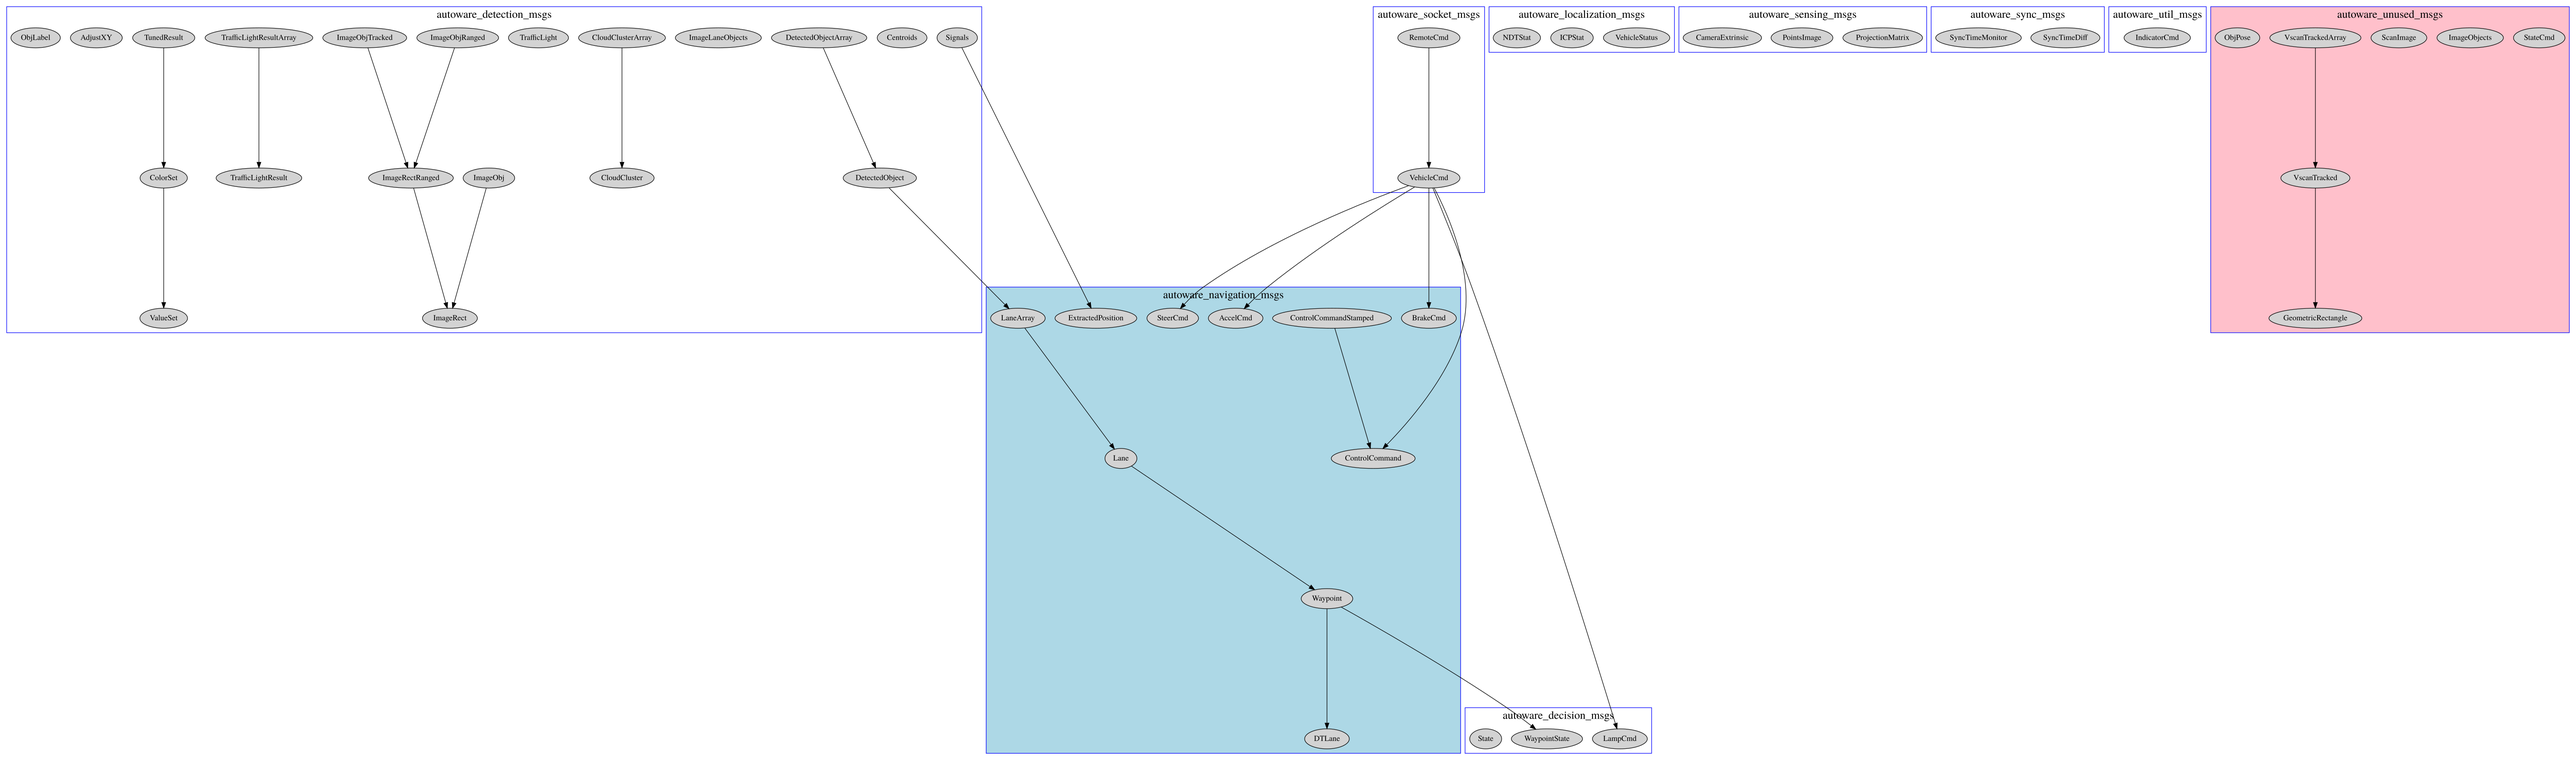
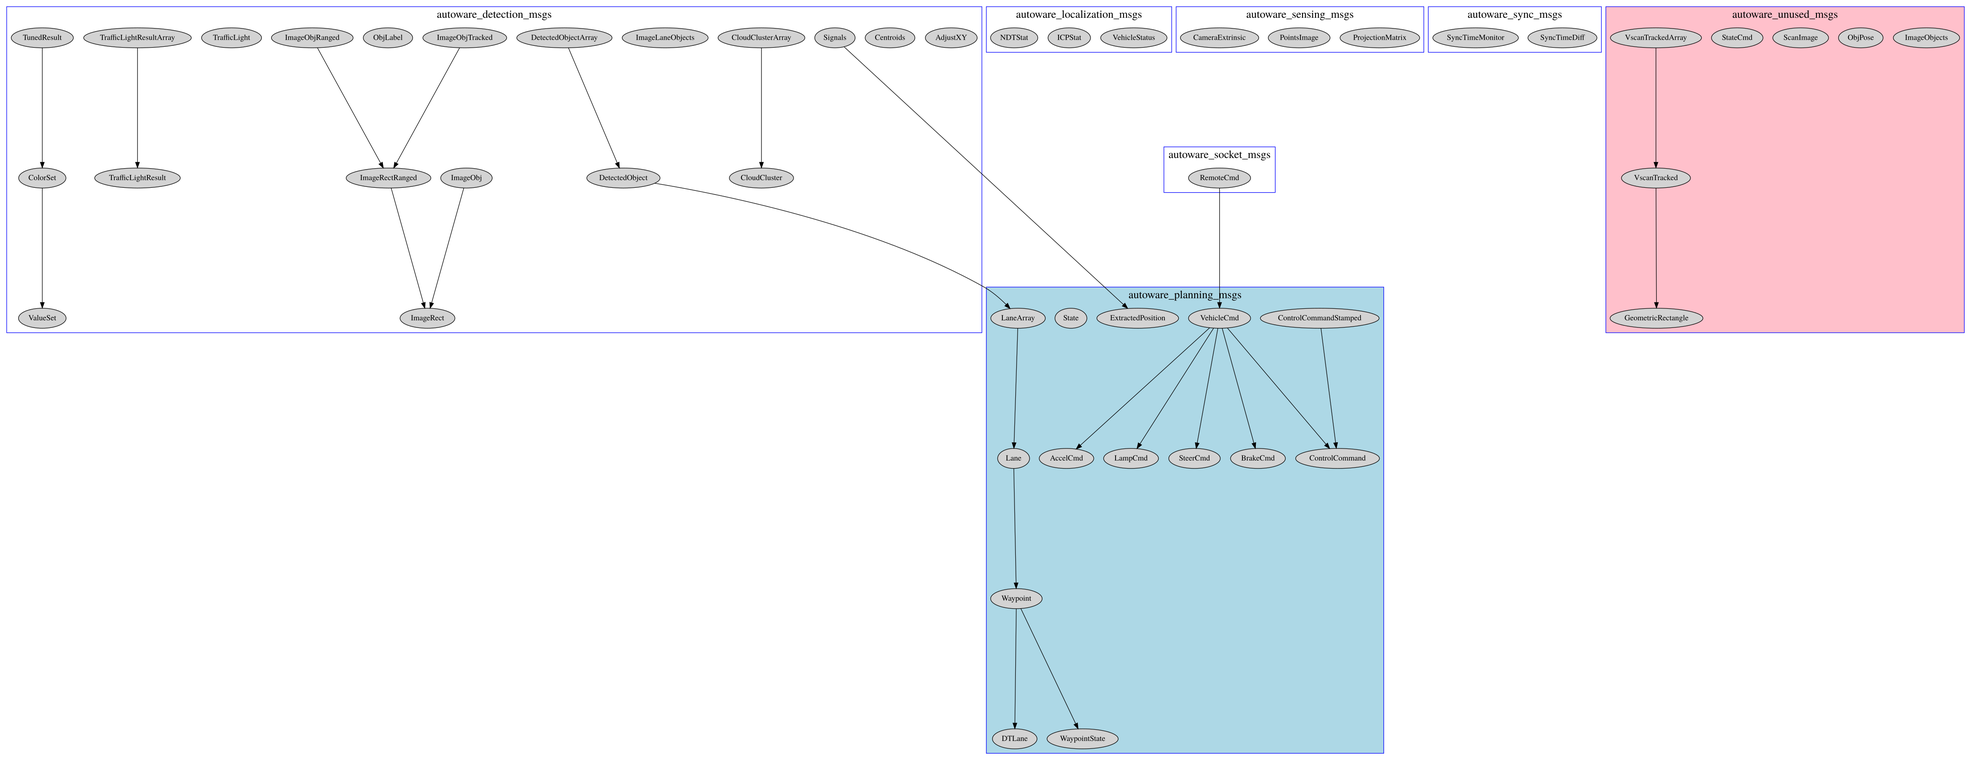
Fixed several issues with documentation.

diff --git a/ros/concerning-autoware-msgs.md b/ros/concerning-autoware-msgs.md
@@ -24,67 +24,82 @@ Namespace of existing message types in `src/msgs/autoware_msgs/msg/` will change
 
 | New namespace                 | Associated messages      |
 | ----------------------------- | ------------------------ |
-|`autoware_decision_msgs`|`autoware_msgs/LampCmd`,`autoware_msgs/WaypointState`,`autoware_msgs/State`|
-|`autoware_detection_msgs`|`autoware_msgs/DetectedObjectArray`,`autoware_msgs/Centroids`,`autoware_msgs/ImageObjRanged`,`autoware_msgs/ImageLaneObjects`,`autoware_msgs/CloudClusterArray`,`autoware_msgs/ImageRect`,`autoware_msgs/TrafficLightResult`,`autoware_msgs/TrafficLight`,`autoware_msgs/ImageObj`,`autoware_msgs/ImageObjTracked`,`autoware_msgs/Signals`,`autoware_msgs/DetectedObject`,`autoware_msgs/TrafficLightResultArray`,`autoware_msgs/TunedResult`,`autoware_msgs/AdjustXY`,`autoware_msgs/CloudCluster`,`autoware_msgs/ObjLabel`|
-|`autoware_localization_msgs`|`autoware_msgs/VehicleStatus`,`autoware_msgs/ICPStat`,`autoware_msgs/NDTStat`|
-|`autoware_mission_msgs`|`autoware_msgs/DTLane`,`autoware_msgs/LaneArray`,`autoware_msgs/Lane`|
-|`autoware_motion_msgs`|`autoware_msgs/ControlCommandStamped`,`autoware_msgs/Waypoint`,`autoware_msgs/ExtractedPosition`,`autoware_msgs/ControlCommand`,`autoware_msgs/BrakeCmd`,`autoware_msgs/AccelCmd`,`autoware_msgs/SteerCmd`|
-|`autoware_sensing_msgs`|`autoware_msgs/ProjectionMatrix`,`autoware_msgs/PointsImage`,`autoware_msgs/CameraExtrinsic`|
-|`autoware_socket_msgs`|`autoware_msgs/VehicleCmd`,`autoware_msgs/RemoteCmd`|
+|`autoware_detection_msgs`|`autoware_msgs/AdjustXY`,`autoware_msgs/Centroids`,`autoware_msgs/CloudCluster`,`autoware_msgs/CloudClusterArray`,`autoware_msgs/ColorSet`,`autoware_msgs/DetectedObject`,`autoware_msgs/DetectedObjectArray`,`autoware_msgs/ImageLaneObjects`,`autoware_msgs/ImageObj`,`autoware_msgs/ImageObjRanged`,`autoware_msgs/ImageObjTracked`,`autoware_msgs/ImageRect`,`autoware_msgs/ImageRectRanged`,`autoware_msgs/ObjLabel`,`autoware_msgs/Signals`,`autoware_msgs/TrafficLight`,`autoware_msgs/TrafficLightResult`,`autoware_msgs/TrafficLightResultArray`,`autoware_msgs/TunedResult`,`autoware_msgs/ValueSet`|
+|`autoware_localization_msgs`|`autoware_msgs/ICPStat`,`autoware_msgs/NDTStat`,`autoware_msgs/VehicleStatus`|
+|`autoware_planning_msgs`|`autoware_msgs/AccelCmd`,`autoware_msgs/BrakeCmd`,`autoware_msgs/ControlCommand`,`autoware_msgs/ControlCommandStamped`,`autoware_msgs/DTLane`,`autoware_msgs/ExtractedPosition`,`autoware_msgs/LampCmd`,`autoware_msgs/Lane`,`autoware_msgs/LaneArray`,`autoware_msgs/State`,`autoware_msgs/SteerCmd`,`autoware_msgs/VehicleCmd`,`autoware_msgs/Waypoint`,`autoware_msgs/WaypointState`|
+|`autoware_sensing_msgs`|`autoware_msgs/CameraExtrinsic`,`autoware_msgs/PointsImage`,`autoware_msgs/ProjectionMatrix`|
+|`autoware_socket_msgs`|`autoware_msgs/RemoteCmd`|
 |`autoware_sync_msgs`|`autoware_msgs/SyncTimeDiff`,`autoware_msgs/SyncTimeMonitor`|
-|`autoware_unused_msgs`|`autoware_msgs/StateCmd`,`autoware_msgs/ImageObjects`,`autoware_msgs/ImageRectRanged`,`autoware_msgs/VscanTracked`,`autoware_msgs/ScanImage`,`autoware_msgs/ValueSet`,`autoware_msgs/ColorSet`,`autoware_msgs/VscanTrackedArray`,`autoware_msgs/ObjPose`,`autoware_msgs/GeometricRectangle`|
-|`autoware_util_msgs`|`autoware_msgs/IndicatorCmd`|
+|`autoware_unused_msgs`(*)|`autoware_msgs/ColorSet`,`autoware_msgs/GeometricRectangle`,`autoware_msgs/ImageObjects`,`autoware_msgs/ImageRectRanged`,`autoware_msgs/ObjPose`,`autoware_msgs/ScanImage`,`autoware_msgs/StateCmd`,`autoware_msgs/ValueSet`,`autoware_msgs/VscanTracked`,`autoware_msgs/VscanTrackedArray`|
 
+(*) These messages will be deleted
 
 The following is a different view of the above table, to ease finding messages to their new namespace.
 
 | Current message               | New namespace            |
 | ----------------------------- | ------------------------ |
-|`autoware_msgs/AccelCmd`|`autoware_motion_msgs`|
+|`autoware_msgs/AccelCmd`|`autoware_planning_msgs`|
 |`autoware_msgs/AdjustXY`|`autoware_detection_msgs`|
-|`autoware_msgs/BrakeCmd`|`autoware_motion_msgs`|
+|`autoware_msgs/BrakeCmd`|`autoware_planning_msgs`|
 |`autoware_msgs/CameraExtrinsic`|`autoware_sensing_msgs`|
 |`autoware_msgs/Centroids`|`autoware_detection_msgs`|
 |`autoware_msgs/CloudCluster`|`autoware_detection_msgs`|
 |`autoware_msgs/CloudClusterArray`|`autoware_detection_msgs`|
-|`autoware_msgs/ControlCommand`|`autoware_motion_msgs`|
-|`autoware_msgs/ControlCommandStamped`|`autoware_motion_msgs`|
-|`autoware_msgs/DTLane`|`autoware_mission_msgs`|
+|`autoware_msgs/ColorSet`|`autoware_detection_msgs`|
+|`autoware_msgs/ControlCommand`|`autoware_planning_msgs`|
+|`autoware_msgs/ControlCommandStamped`|`autoware_planning_msgs`|
+|`autoware_msgs/DTLane`|`autoware_planning_msgs`|
 |`autoware_msgs/DetectedObject`|`autoware_detection_msgs`|
 |`autoware_msgs/DetectedObjectArray`|`autoware_detection_msgs`|
-|`autoware_msgs/ExtractedPosition`|`autoware_motion_msgs`|
+|`autoware_msgs/ExtractedPosition`|`autoware_planning_msgs`|
+|`autoware_msgs/GeometricRectangle`|`autoware_unused_msgs`|
 |`autoware_msgs/ICPStat`|`autoware_localization_msgs`|
 |`autoware_msgs/ImageLaneObjects`|`autoware_detection_msgs`|
 |`autoware_msgs/ImageObj`|`autoware_detection_msgs`|
 |`autoware_msgs/ImageObjRanged`|`autoware_detection_msgs`|
 |`autoware_msgs/ImageObjTracked`|`autoware_detection_msgs`|
 |`autoware_msgs/ImageRect`|`autoware_detection_msgs`|
-|`autoware_msgs/IndicatorCmd`|`autoware_util_msgs`|
-|`autoware_msgs/LampCmd`|`autoware_decision_msgs`|
-|`autoware_msgs/Lane`|`autoware_mission_msgs`|
-|`autoware_msgs/LaneArray`|`autoware_mission_msgs`|
+|`autoware_msgs/ImageRectRanged`|`autoware_detection_msgs`|
+|`autoware_msgs/LampCmd`|`autoware_planning_msgs`|
+|`autoware_msgs/Lane`|`autoware_planning_msgs`|
+|`autoware_msgs/LaneArray`|`autoware_planning_msgs`|
 |`autoware_msgs/NDTStat`|`autoware_localization_msgs`|
 |`autoware_msgs/ObjLabel`|`autoware_detection_msgs`|
 |`autoware_msgs/PointsImage`|`autoware_sensing_msgs`|
 |`autoware_msgs/ProjectionMatrix`|`autoware_sensing_msgs`|
 |`autoware_msgs/RemoteCmd`|`autoware_socket_msgs`|
 |`autoware_msgs/Signals`|`autoware_detection_msgs`|
-|`autoware_msgs/State`|`autoware_decision_msgs`|
-|`autoware_msgs/SteerCmd`|`autoware_motion_msgs`|
+|`autoware_msgs/State`|`autoware_planning_msgs`|
+|`autoware_msgs/SteerCmd`|`autoware_planning_msgs`|
 |`autoware_msgs/SyncTimeDiff`|`autoware_sync_msgs`|
 |`autoware_msgs/SyncTimeMonitor`|`autoware_sync_msgs`|
 |`autoware_msgs/TrafficLight`|`autoware_detection_msgs`|
 |`autoware_msgs/TrafficLightResult`|`autoware_detection_msgs`|
 |`autoware_msgs/TrafficLightResultArray`|`autoware_detection_msgs`|
 |`autoware_msgs/TunedResult`|`autoware_detection_msgs`|
-|`autoware_msgs/VehicleCmd`|`autoware_socket_msgs`|
+|`autoware_msgs/ValueSet`|`autoware_detection_msgs`|
+|`autoware_msgs/VehicleCmd`|`autoware_planning_msgs`|
 |`autoware_msgs/VehicleStatus`|`autoware_localization_msgs`|
-|`autoware_msgs/Waypoint`|`autoware_motion_msgs`|
-|`autoware_msgs/WaypointState`|`autoware_decision_msgs`|
+|`autoware_msgs/VscanTracked`|`autoware_unused_msgs`|
+|`autoware_msgs/Waypoint`|`autoware_planning_msgs`|
+|`autoware_msgs/WaypointState`|`autoware_planning_msgs`|
 
-## Procedure
+## Procedure to issue PRs
 
-To test whether the proposed approach works, please follow these steps:
+To test each message refactoring, please follow these steps:
+
+For each category `C` in [`detection`, `localization`, `planning`, `sensing`, `sync`, `socket`]:
+1. Create the new message package `autoware_C_msgs` with its corresponding message files (move the message files out of `autoware_msgs` into `autoware_C_msgs`)
+2. Keep the old `autoware_msgs` package (except those files that went to `autoware_C_msgs`)
+3. Create a new branch based on develop called `fix/refactoring_C_msgs`
+4. Apply the refactoring script `./fix-autoware-msgs.py --fix --namespace autoware_C_msgs`, to change `autoware_msgs` into `autoware_C_msgs` only to those files which are using messages in `autoware_C_msgs`
+5. Build Autoware on branch `fix/refactoring_C_msgs`, then issue the PR for that branch
+
+Following the above, people should be be able to merge and fully build each PR.
+
+## Procedure to test all messages refactoring
+
+To generate all the messages refactoring and test whether the proposed approach works, please follow these steps:
 
 1. Get a fresh copy of Autoware `develop` branch, ex. `git clone https://github.com/CPFL/Autoware.git -b develop --recurse-submodules [AUTOWARE_PATH]`.
 2. Make sure the original builds correctly: run `./catkin_make_release` (follow the steps in [How to build](https://github.com/CPFL/Autoware/wiki/Source-Build) ).
@@ -99,7 +114,7 @@ Initially `autoware_motion_msgs` and `autoware_mission_msgs` were proposed as in
 
 ![Circular dependencies](autoware_msgs_relation.png)
 
-To solve this interdependency, both `autoware_motion_msgs` and `autoware_mission_msgs` were replaced by a single namespace `autoware_navigation_msgs`. Also, up to the initial proposal, several messages were not being used by any other package and deemed `unused` and suitable to removal. However we did not consider actual autoware messages interdependencies, this was also fixed by moving some `unused` messages to the corresponding namespace. Both solutions are shown in the following image (new navigation namespace highlighted in lightblue):
+To solve this interdependency, both `autoware_motion_msgs` and `autoware_mission_msgs` were replaced by a single namespace `autoware_planning_msgs`. The initially proposed `autoware_decision_msgs` was also merged into `autoware_planning_msgs`. This is shown in the following image (new planning namespace highlighted in lightblue):
 
 ![Fixed](autoware_msgs_relation-new.png)
 
@@ -132,7 +147,7 @@ As to the commit/date stated above, the following messages are referred by a pac
 
 ### Others
 
-The following issues were found, we corrected them.
+The following issues were found, we corrected them manually.
 
 * File `src/driveworks/packages/autoware_driveworks_interface/package.xml` depends on `autoware_msgs` but the package does not use it
 * File `src/simulation/lgsvl_simulator_bridge/package.xml` depends on `autoware_msgs` but the package does not use it
